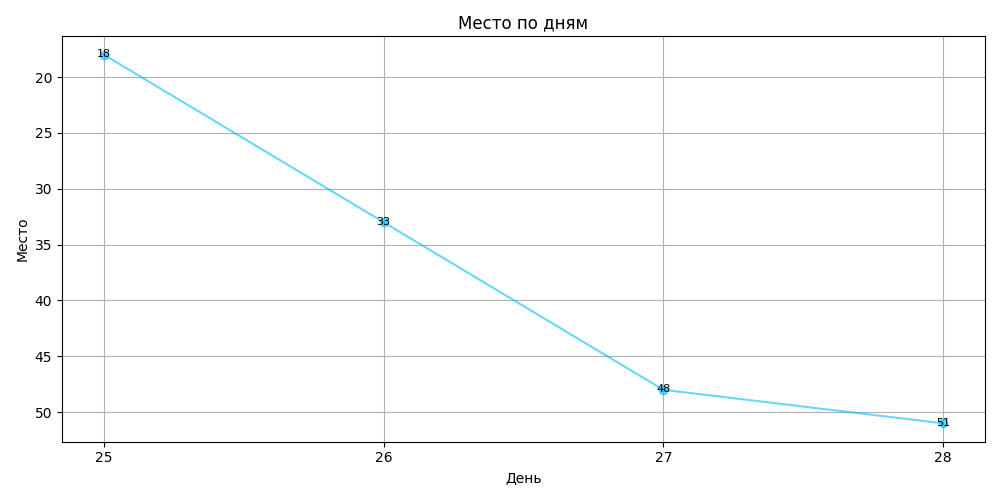
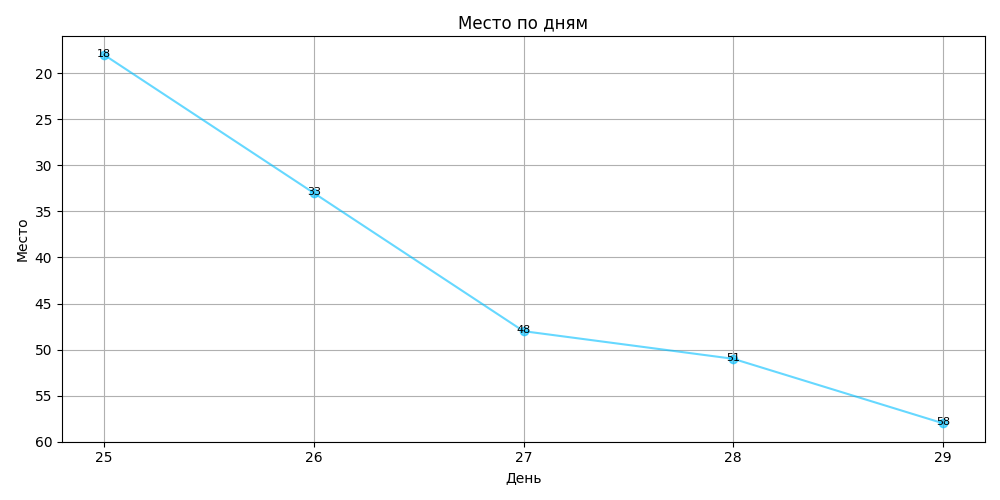
catboost day5 --rating 58

diff --git a/BoostChallenge/29June/solve.py b/BoostChallenge/29June/solve.py
@@ -1,0 +1,15 @@
+def solution(n: int, m: int, p: list[int]) -> list[int]:
+    restored = p[:]
+    for i in range(n):
+        if restored[i] == -1:
+            if i == 0:
+                restored[i] = m
+            else:
+                restored[i] = restored[i - 1] + m
+        else:
+            if i > 0 and restored[i] - restored[i - 1] < m:
+                return [-1]
+    earned = [restored[0]]
+    for i in range(1, n):
+        earned.append(restored[i] - restored[i - 1])
+    return earned
